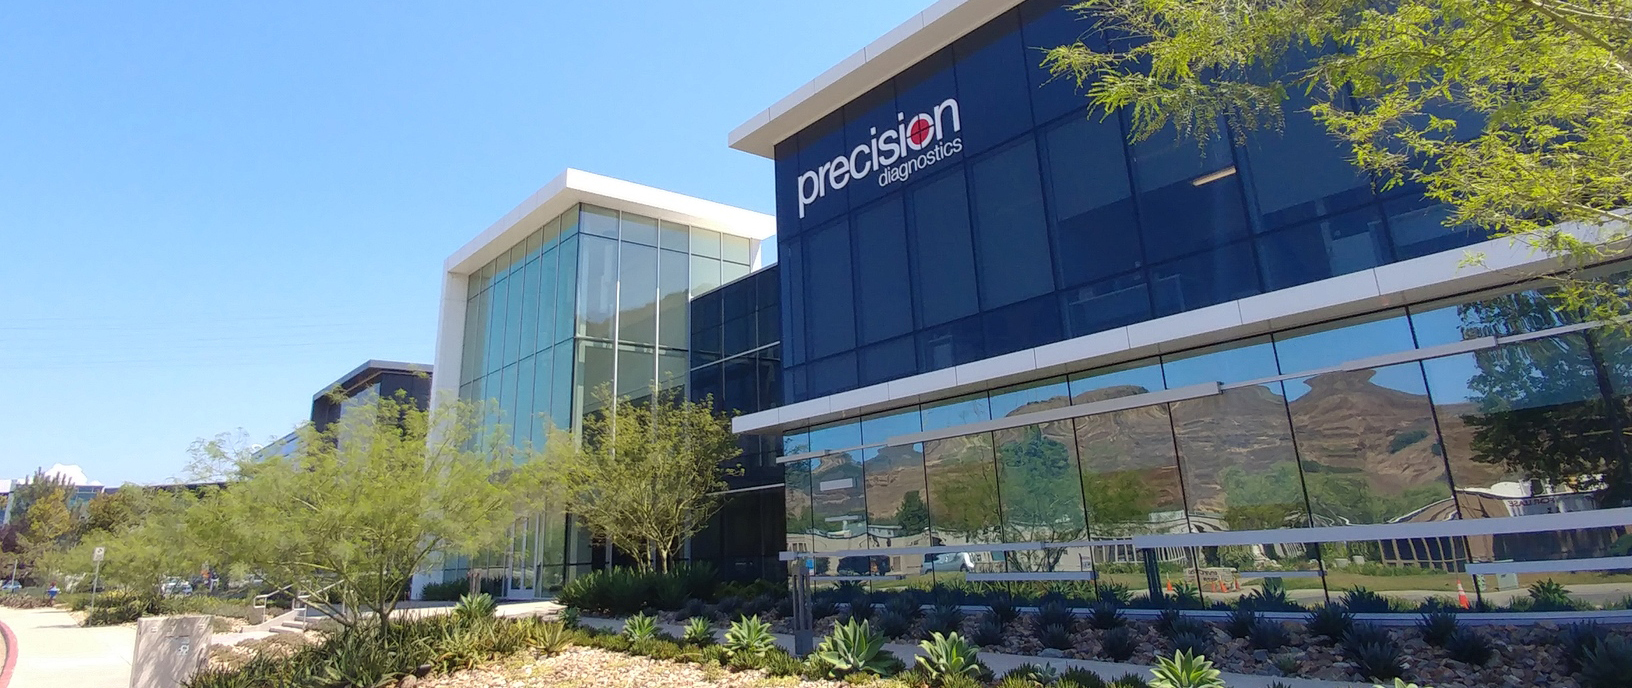
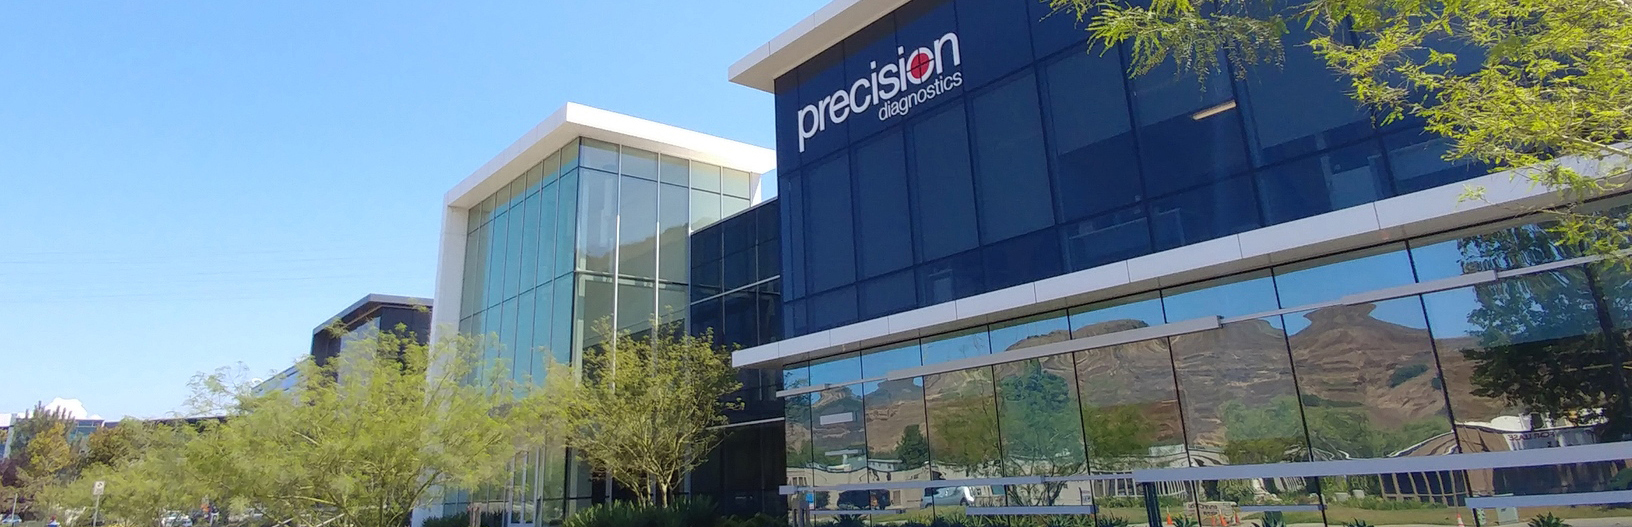
image

diff --git a/pages/about.html b/pages/about.html
@@ -123,7 +123,7 @@
 
     <!--Jumbotron-->
 
-        <image src="/assets/images/Building and Laboratory/precisionbuilding.jpg" class="contact-image" style="width:100%; height:auto; margin-left:0px;"></image>
+        <image src="/assets/images/Building and Laboratory/indexImage.jpg" class="contact-image" style="width:100%; height:auto; margin-left:0px;"></image>
 
         <!-- <div class="sp-content">
           <div class="sp-globe"></div>
